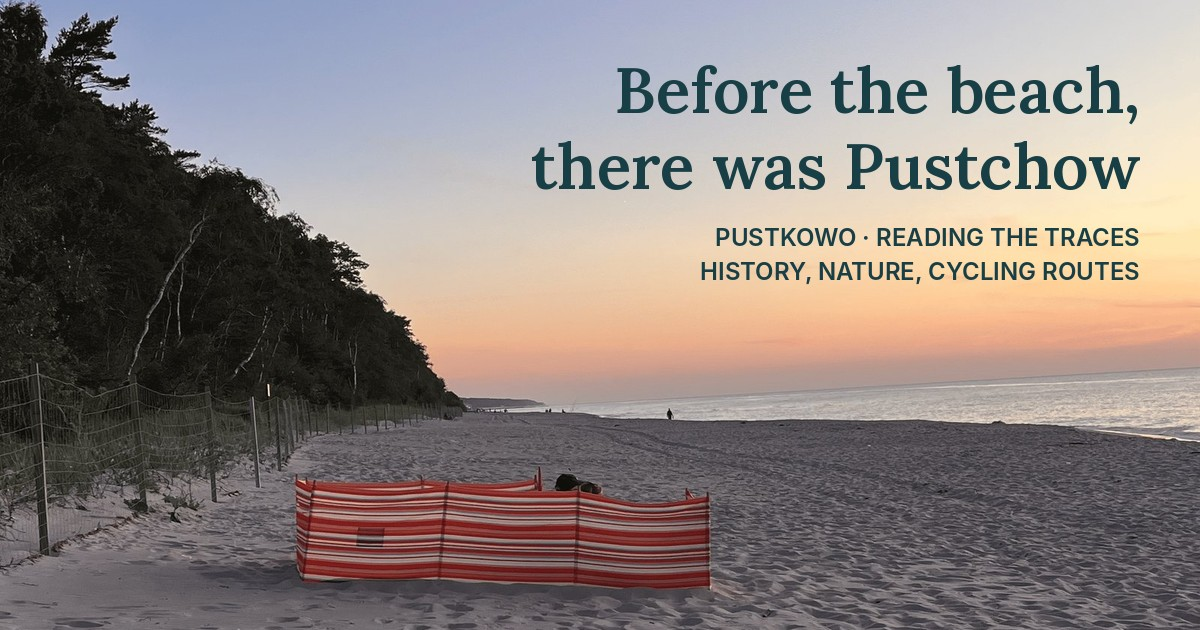
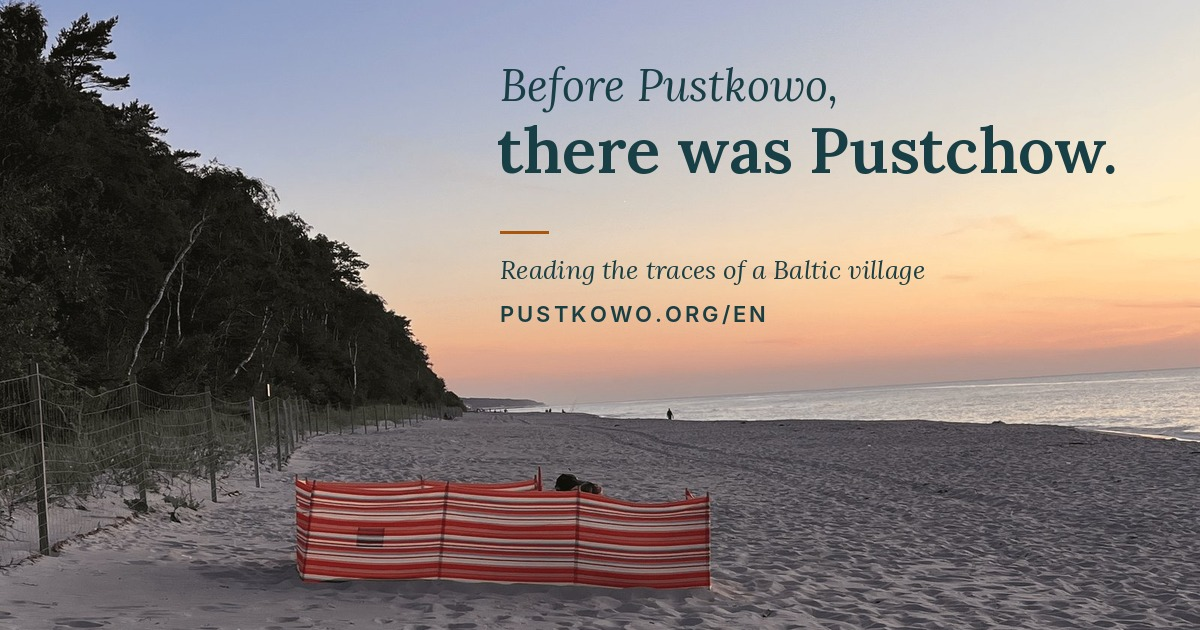
Updated from Publii

diff --git a/index.html b/index.html
@@ -1,4 +1,4 @@
-<!DOCTYPE html><html lang="en-gb"><head><meta charset="utf-8"><meta http-equiv="X-UA-Compatible" content="IE=edge"><meta name="viewport" content="width=device-width,initial-scale=1,user-scalable=no"><title>Pustkowo (Pustchow) near Rewal: a guide to reading the traces</title><meta name="description" content="A guide to Pustkowo near Rewal, a Baltic village with almost 900 years of history. The former Pustchow, traces of the past, nature and cycling routes."><meta name="generator" content="Publii Open-Source CMS for Static Site"><link rel="canonical" href="https://pustkowo.org/en/"><link rel="alternate" type="application/atom+xml" href="https://pustkowo.org/en/feed.xml" title="Pustkowo Guide - RSS"><link rel="alternate" type="application/json" href="https://pustkowo.org/en/feed.json" title="Pustkowo Guide - JSON"><meta property="og:title" content="Pustkowo (Pustchow) near Rewal: a guide to reading the traces"><meta property="og:image" content="https://pustkowo.org/en/media/website/pustkowo-social-en.jpg"><meta property="og:image:width" content="1200"><meta property="og:image:height" content="630"><meta property="og:site_name" content="Pustkowo. Reading the Traces | Western Pomerania"><meta property="og:description" content="A guide to Pustkowo near Rewal, a Baltic village with almost 900 years of history. The former Pustchow, traces of the past, nature and cycling routes."><meta property="og:url" content="https://pustkowo.org/en/"><meta property="og:type" content="article"><link rel="shortcut icon" href="https://pustkowo.org/en/media/website/favicon.png" type="image/png"><link rel="preload" href="https://pustkowo.org/en/assets/dynamic/fonts/librefranklin/librefranklin.woff2" as="font" type="font/woff2" crossorigin><link rel="preload" href="https://pustkowo.org/en/assets/dynamic/fonts/librefranklin/librefranklin-italic.woff2" as="font" type="font/woff2" crossorigin><link rel="stylesheet" href="https://pustkowo.org/en/assets/css/fontawesome-all.min.css?v&#x3D;85514f933f9e0b82460af63f1a403fa5"><link rel="stylesheet" href="https://pustkowo.org/en/assets/css/style.css?v&#x3D;1991b72e5cb0dfa44fa13bae89d3acb7"><script type="application/ld+json">{"@context":"http://schema.org","@type":"Article","mainEntityOfPage":{"@type":"WebPage","@id":"https://pustkowo.org/en/"},"headline":"Pustkowo. Reading the Traces","datePublished":"2026-10-08T16:55+02:00","dateModified":"2026-11-28T11:56+01:00","image":{"@type":"ImageObject","url":"https://pustkowo.org/en/media/website/pustkowo_logo_lichen_bottom.svg","height":340,"width":590},"description":"A guide to Pustkowo near Rewal, a Baltic village with almost 900 years of history. The former Pustchow, traces of the past, nature and cycling routes.","author":{"@type":"Person","name":"Pustkowo Guide","url":"https://pustkowo.org/en/authors/ka/"},"publisher":{"@type":"Organization","name":"Pustkowo Guide","logo":{"@type":"ImageObject","url":"https://pustkowo.org/en/media/website/pustkowo_logo_lichen_bottom.svg","height":340,"width":590}}}</script><noscript><style>img[loading] {
+<!DOCTYPE html><html lang="en-gb"><head><meta charset="utf-8"><meta http-equiv="X-UA-Compatible" content="IE=edge"><meta name="viewport" content="width=device-width,initial-scale=1,user-scalable=no"><title>Pustkowo (Pustchow) near Rewal: history, nature and cycling routes</title><meta name="description" content="Pustkowo near Rewal, a Baltic village with almost 900 years of history. A guide, stories of the former Pustchow, a village map and cycling routes."><meta name="generator" content="Publii Open-Source CMS for Static Site"><link rel="canonical" href="https://pustkowo.org/en/"><link rel="alternate" type="application/atom+xml" href="https://pustkowo.org/en/feed.xml" title="Pustkowo Guide - RSS"><link rel="alternate" type="application/json" href="https://pustkowo.org/en/feed.json" title="Pustkowo Guide - JSON"><meta property="og:title" content="Pustkowo (Pustchow) near Rewal: history, nature and cycling routes"><meta property="og:image" content="https://pustkowo.org/en/media/website/pustkowo-social-en.jpg"><meta property="og:image:width" content="1200"><meta property="og:image:height" content="630"><meta property="og:site_name" content="Pustkowo. Reading the Traces | Western Pomerania"><meta property="og:description" content="Pustkowo near Rewal, a Baltic village with almost 900 years of history. A guide, stories of the former Pustchow, a village map and cycling routes."><meta property="og:url" content="https://pustkowo.org/en/"><meta property="og:type" content="article"><link rel="shortcut icon" href="https://pustkowo.org/en/media/website/favicon.png" type="image/png"><link rel="preload" href="https://pustkowo.org/en/assets/dynamic/fonts/librefranklin/librefranklin.woff2" as="font" type="font/woff2" crossorigin><link rel="preload" href="https://pustkowo.org/en/assets/dynamic/fonts/librefranklin/librefranklin-italic.woff2" as="font" type="font/woff2" crossorigin><link rel="stylesheet" href="https://pustkowo.org/en/assets/css/fontawesome-all.min.css?v&#x3D;85514f933f9e0b82460af63f1a403fa5"><link rel="stylesheet" href="https://pustkowo.org/en/assets/css/style.css?v&#x3D;1991b72e5cb0dfa44fa13bae89d3acb7"><script type="application/ld+json">{"@context":"http://schema.org","@type":"Article","mainEntityOfPage":{"@type":"WebPage","@id":"https://pustkowo.org/en/"},"headline":"Pustkowo. Reading the Traces","datePublished":"2026-10-08T16:55+02:00","dateModified":"2026-11-28T12:34+01:00","image":{"@type":"ImageObject","url":"https://pustkowo.org/en/media/website/pustkowo_logo_lichen_bottom.svg","height":340,"width":590},"description":"Pustkowo near Rewal, a Baltic village with almost 900 years of history. A guide, stories of the former Pustchow, a village map and cycling routes.","author":{"@type":"Person","name":"Pustkowo Guide","url":"https://pustkowo.org/en/authors/ka/"},"publisher":{"@type":"Organization","name":"Pustkowo Guide","logo":{"@type":"ImageObject","url":"https://pustkowo.org/en/media/website/pustkowo_logo_lichen_bottom.svg","height":340,"width":590}}}</script><noscript><style>img[loading] {
                     opacity: 1;
                 }</style></noscript><style>html.pk-wait, html.pk-wait body { overflow: hidden; }
 #pk-wait { position: fixed; inset: 0; z-index: 2147482000; background: #F1EBDE; }
